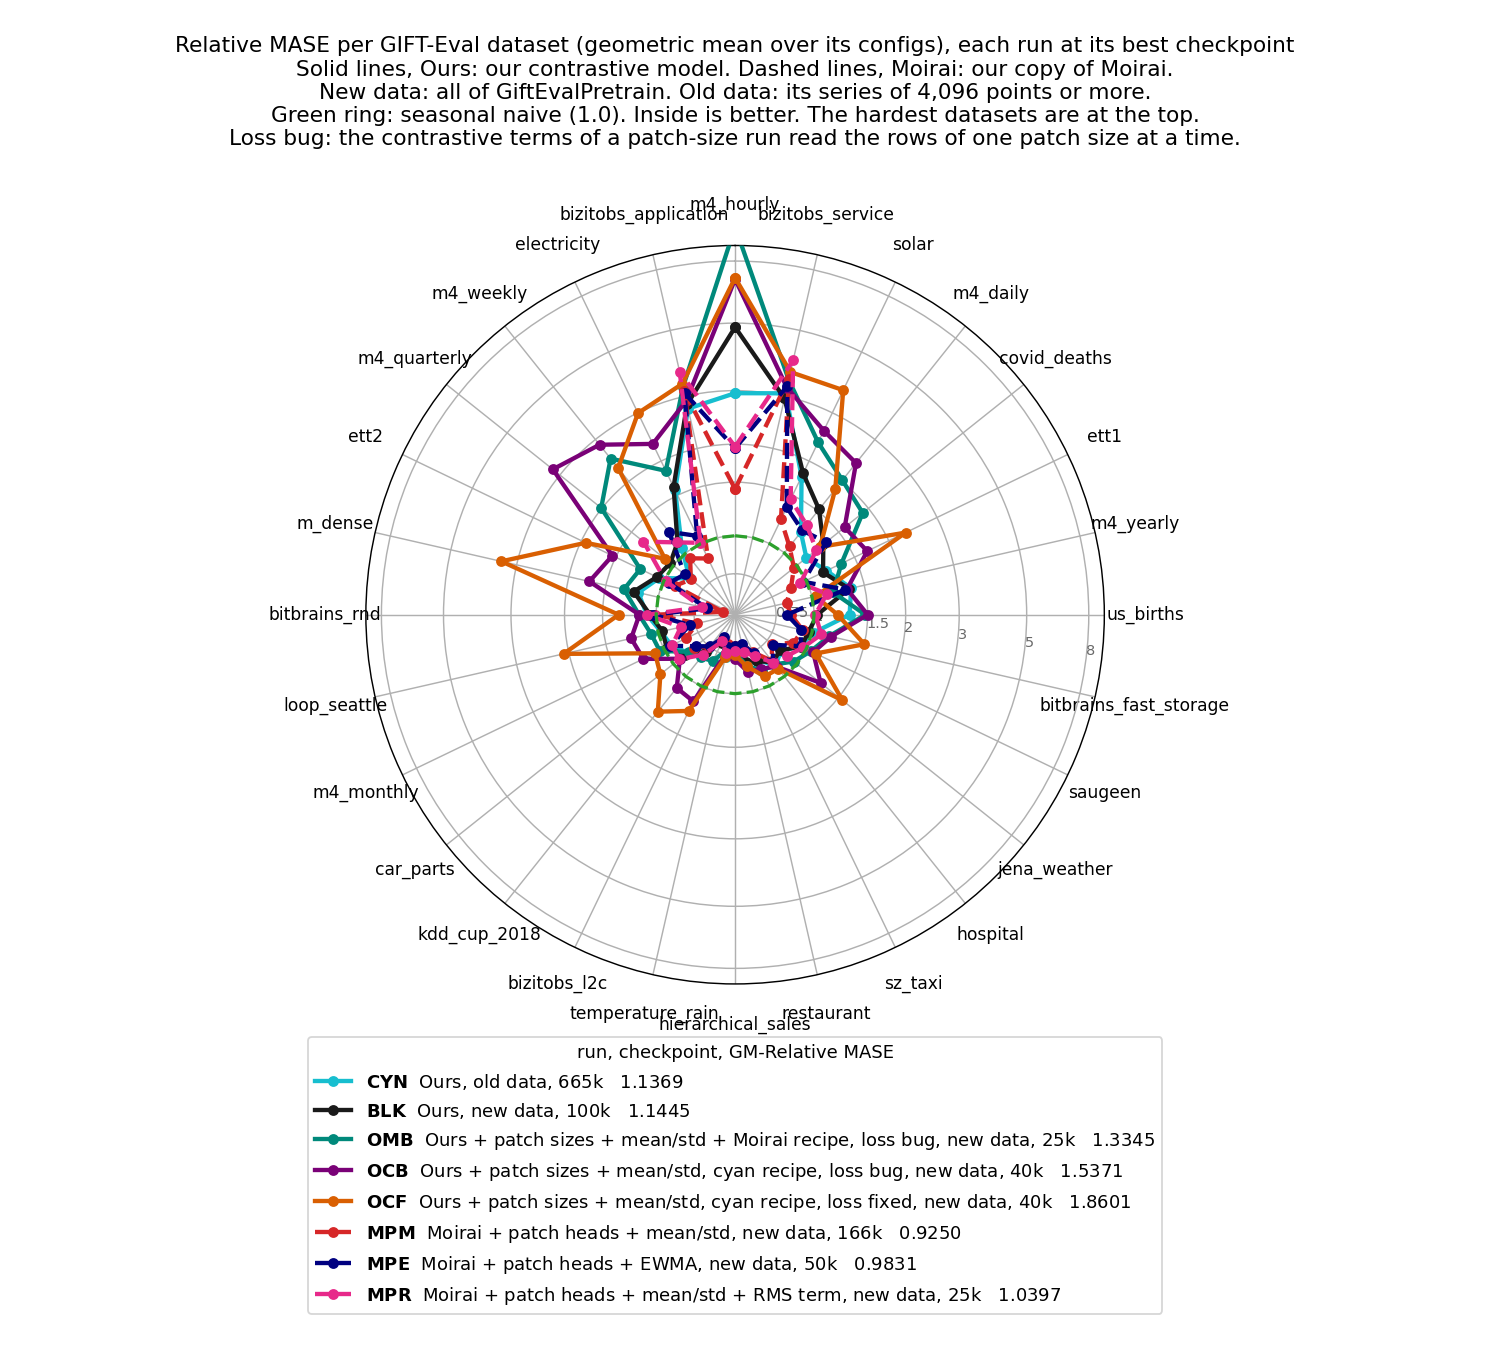
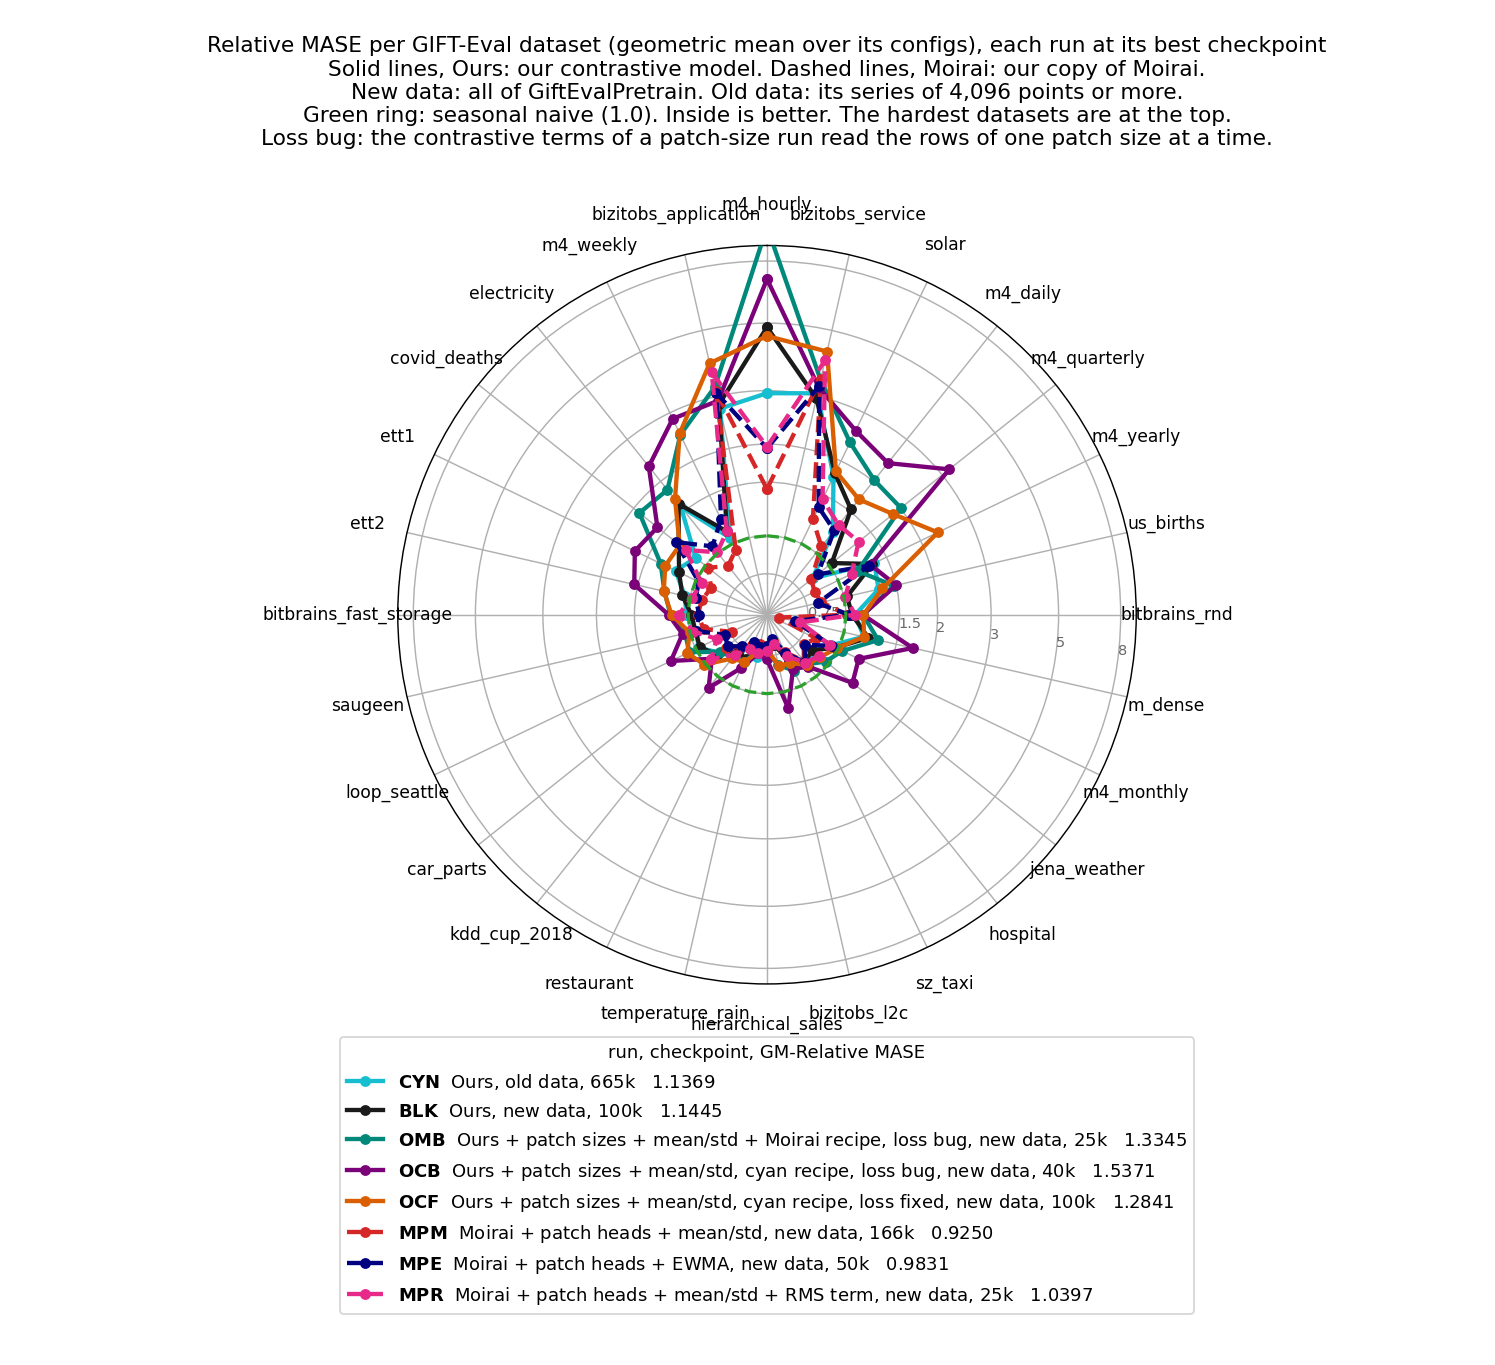
exp(#412): OCF (#412oc2) scores 1.2841 at 100k

Changed region(s): [[0.1231, 0.0308, 0.8615, 0.9538], [0.6154, 0.2769, 0.6462, 0.3077]]

diff --git a/reports/2026-09-06_moirai_small_size/scripts/plot_gm_rates.py b/reports/2026-09-06_moirai_small_size/scripts/plot_gm_rates.py
@@ -48,7 +48,8 @@ XSCALE = {"cf415_moirai": 4, "cf415_moirai_native": 4, "cf419_moirai_native": 4,
           "cf421z_moirai_native": 4, "cf421f_moirai_native": 4, "cf421fb_moirai_native": 4,
           "cf421n_moirai_native": 4, "cf421ew_moirai_native": 4, "cf412om": 4}
 # Where the last score of a line prints, so two lines that end together part.
-END_LABEL_OFFSET = {P + "_lr100x": (9, 4), P + "_cos200k": (9, -12), "cf412om": (-62, 6)}
+END_LABEL_OFFSET = {P + "_lr100x": (9, 4), P + "_cos200k": (9, -12), "cf412om": (-62, 6),
+                    "cf412oc2": (-58, -16)}
 BEST, BAND, PROJECT_BEST = 1.1369, 0.008, 1.0651
 YMIN, YMAX = 0.90, 1.60
 
